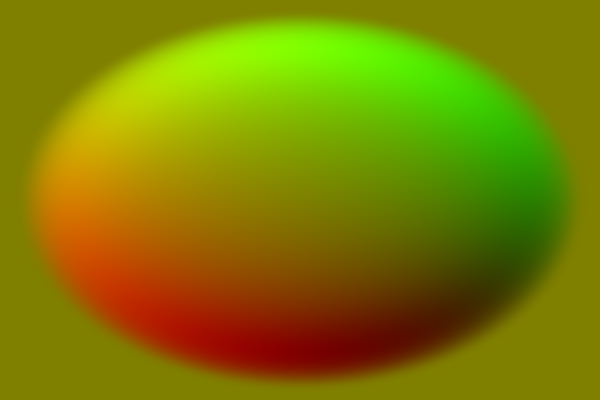
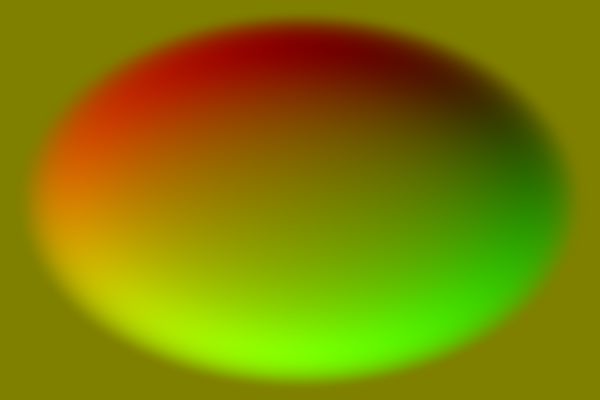
more maps

diff --git a/simulation/maps/map_utils.py b/simulation/maps/map_utils.py
@@ -24,22 +24,40 @@ def rgb_to_floats(x, min=-1, max=1):
     return out
 
 
-def slope_layers(height):
+def slope_layers(height, f=None):
     """
     Given an (n + 1, m + 1)-layer ``height``, return the (n, m, 2) layer that has the
     x- and y-components of the slope of ``height``, as follows: if the heights surrounding
     a square are
-    > a b
     > c d
+    > a b
     then we compute the slope there as
     > ( (b - a)/2 + (d - c)/2, (c - a)/2 + (d - b)/2 )
     """
-    dx = np.diff(height, axis=1)
-    dy = np.diff(height, axis=0)
+    if f is None:
+        f = (1, 1)
+    dx = f[0] * np.diff(height, axis=1)
+    dy = f[1] * (-1) * np.diff(height, axis=0) # -1 because images have (0,0) in lower-left
     return np.stack([
             (dx[1:,:] + dx[:-1,:]) / 2,
             (dy[:,1:] + dy[:,:-1]) / 2
         ], axis=-1)
+
+
+def function_height(f, nrow, ncol, xrange, yrange, **kwargs):
+    """
+    Return a (nrow x ncol) numpy array with values given by
+    >  f(x[i], y[j])
+    where x ranges from xrange[0] to xrange[1].
+    and likewise for y, defaulting to both being in [0, 1).
+    """
+    xvals = np.linspace(xrange[0], xrange[1], nrow)
+    yvals = np.linspace(yrange[0], yrange[1], ncol)
+    x = np.repeat([xvals], ncol, axis=1)
+    y = np.repeat([yvals], nrow, axis=0).flatten()
+    out = f(x, y, **kwargs)
+    out.shape = (nrow, ncol)
+    return(out)
 
 
 def bump_height(nrow, ncol, width=None, center=None):
@@ -58,6 +76,27 @@ def bump_height(nrow, ncol, width=None, center=None):
     y = np.repeat([np.arange(ncol) - center[1]], nrow, axis=0).flatten()
     z = np.maximum(0.05, 1 - ((x/width[0]) ** 2 + (y/width[1]) ** 2))
     out = np.exp(- 1 / z)
+    out[out < 0] = 0.0
+    out.shape = (nrow, ncol)
+    return(out)
+
+
+def gaussian_height(nrow, ncol, width=None, center=None):
+    """
+    Return a (nrow x ncol) numpy array with values given by the gaussian density
+    >  exp(- r^2 / 2 ),
+    where
+    >  r = sqrt( (x/width[0])^2 + (y/width[1])^2 )
+    for -width[0] < x < width[0] and -width[1] , y < width[1].
+    """
+    if center is None:
+        center = np.array([(nrow - 1) / 2, (ncol - 1) / 2])
+    if width is None:
+        width = center
+    x = np.repeat([np.arange(nrow) - center[0]], ncol, axis=1)
+    y = np.repeat([np.arange(ncol) - center[1]], nrow, axis=0).flatten()
+    z = (x/width[0]) ** 2 + (y/width[1]) ** 2
+    out = np.exp(- z/2)
     out[out < 0] = 0.0
     out.shape = (nrow, ncol)
     return(out)
@@ -83,7 +122,7 @@ def mountain_height(nrow, ncol, slope=None, center=None):
     return(out)
 
 
-def make_slope_rgb(nrow, ncol, height_fn, **kwargs):
+def make_slope_rgb(nrow, ncol, height_fn, f=None, **kwargs):
     if 'center' in kwargs:
         center = kwargs['center']
         kwargs['center'] = [center[0] * (1 + 1/nrow), center[1] * (1 + 1/ncol)]
@@ -91,7 +130,7 @@ def make_slope_rgb(nrow, ncol, height_fn, **kwargs):
             nrow + 1,
             ncol + 1,
             **kwargs)
-    slope = slope_layers(height)
+    slope = slope_layers(height, f=f)
     out = np.concatenate([
             floats_to_rgb(slope / np.max(np.abs(slope)), min=-1, max=1),
             np.full((nrow, ncol, 1), 0, dtype='uint8'),
@@ -148,6 +187,30 @@ def mountain_sigma(nrow, ncol, slope=None, center=None):
     return make_sigma_rgb(
             nrow, ncol, mountain_height,
             slope=slope, center=center)
+
+def saddle_slope(nrow, ncol, width=None, center=None):
+    """
+    Make a (nrow, ncol, 4) RGBA array with layers corresponding to
+    (downslope bias x, downslope bias y, 0, 255)
+    on a "butte" (a bump function).
+    """
+    if center is None:
+        center = np.array([nrow / 2, ncol / 2])
+    return make_slope_rgb(
+            nrow, ncol, gaussian_height, f=(1, -1),
+            width=width, center=center)
+
+def gaussian_slope(nrow, ncol, width=None, center=None):
+    """
+    Make a (nrow, ncol, 4) RGBA array with layers corresponding to
+    (downslope bias x, downslope bias y, 0, 255)
+    on a "butte" (a bump function).
+    """
+    if center is None:
+        center = np.array([nrow / 2, ncol / 2])
+    return make_slope_rgb(
+            nrow, ncol, gaussian_height,
+            width=width, center=center)
 
 def butte_slope(nrow, ncol, width=None, center=None):
     """

diff --git a/simulation/maps/make_maps.py b/simulation/maps/make_maps.py
@@ -44,6 +44,15 @@ height = floats_to_rgb(mountain_height(h, w), min=0, max=1)
 im = Image.fromarray(height)
 im.save("mountain_height.png", mode="L")
 
+# DOWNHILL: downhill on the gaussian density
+rgb = gaussian_slope(h, w)
+im = Image.fromarray(rgb)
+im.save("gaussian_bias.png")
+
+# SADDLE: saddlewise on the gaussian density
+rgb = saddle_slope(h, w)
+im = Image.fromarray(rgb)
+im.save("saddle_bias.png")
 
 # BUTTE: downhill on a bump function
 rgb = butte_slope(h, w)
@@ -54,6 +63,8 @@ rgb = butte_sigma(h, w)
 im = Image.fromarray(rgb)
 im.save("butte_sigma.png")
 
-height = floats_to_rgb(bump_height(h, w), min=0, max=1)
+x = bump_height(h, w)
+x /= np.max(x)
+height = floats_to_rgb(x, min=0, max=1)
 im = Image.fromarray(height)
 im.save("butte_height.png", mode="L")
